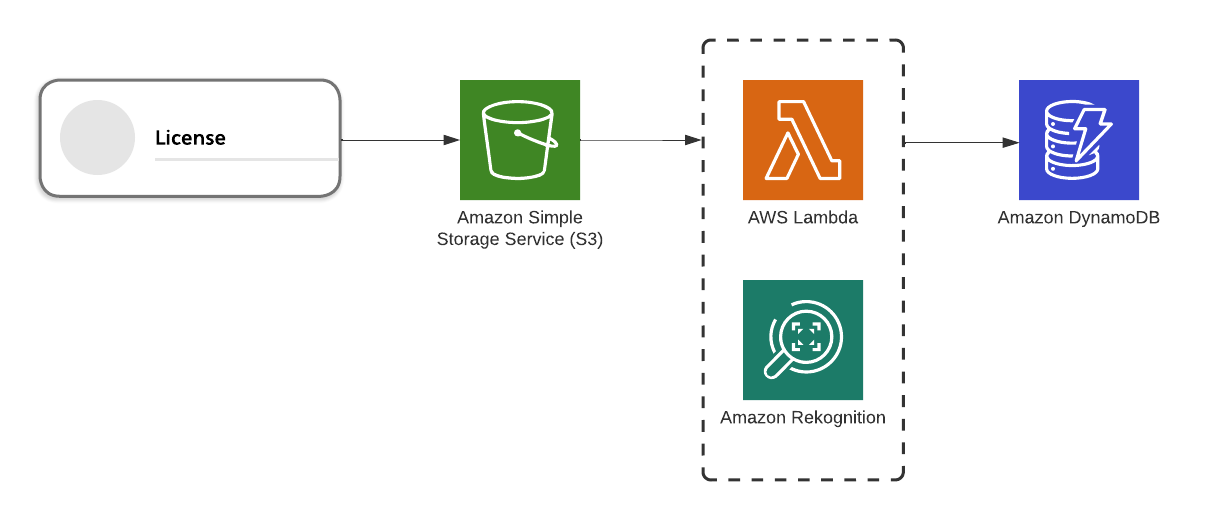
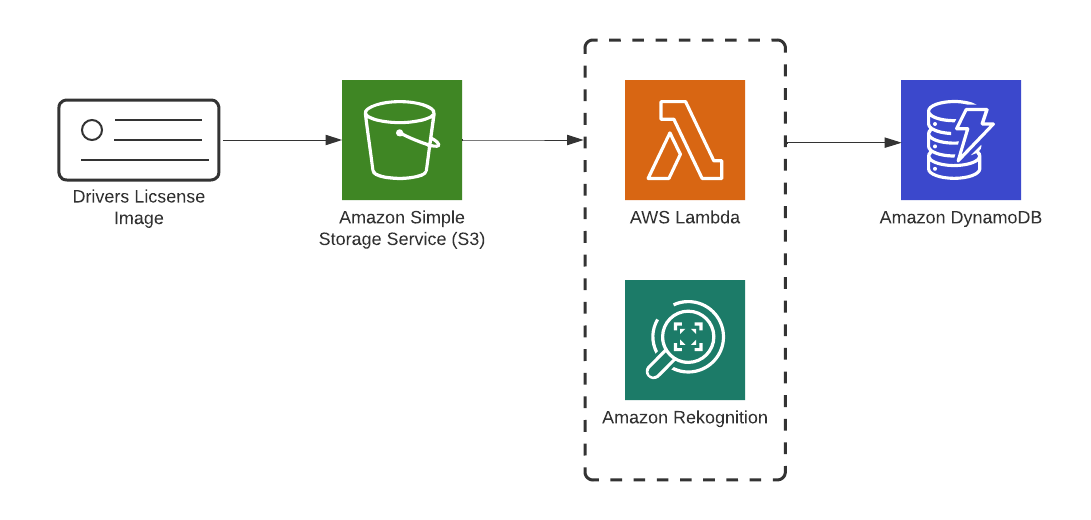
Added README for rekognition-text

diff --git a/rekognition-text/src/image_lambda/lambda.py b/rekognition-text/src/image_lambda/lambda.py
@@ -60,6 +60,11 @@ def handler(event, context):
     logger.setLevel(logging.INFO)
     logger.info("request: " + json.dumps(event))
 
+    if not TABLE_NAME:
+        message = "Could not find table name from environemnt."
+        logger.error(message)
+        return {"statusCode": 500, "body": message}
+
     try:
         for record in event["Records"]:
             # Get the S3 bucket object info

diff --git a/rekognition-text/README.md b/rekognition-text/README.md
@@ -1,31 +1,200 @@
-# Welcome to your CDK TypeScript project
+# Rekognition Text Extraction
 
-This is a blank project for CDK development with TypeScript.
+This example was inspired by the sign up process of Uber CarShare, where
+users are required to provide a photo of there license to extract user
+details and ultimately identify them. We can use AWS Rekognition to
+automate feature extraction from drivers license. At a high level, this
+services will store license images in an S3 bucket. Whenever a new image
+in uploaded to our bucket, we will trigger a lambda function that will build
+a Rekognition client and perform image analysis and text extract from the
+newly uploaded image. We can then send the extracted text to dynamodb for
+later use.
 
-The `cdk.json` file tells the CDK Toolkit how to execute your app.
+## Data Storage
 
-## Upload an image to s3 via cli
+The stack itself is fairly simple, at the top of our cdk, we defined our bucket to upload images to as well as the dynamodb to store extracted text
 
-Run the command
+```typescript
+// S3 core
+const bucket = new Bucket(this, "LICENSE_IMAGES");
 
-```bash
-aws s3 ls
+// DynamoDB Table
+const table = new Table(this, "LICENSE_RECORDS", {
+  partitionKey: { name: "LicenseNo", type: AttributeType.STRING },
+  billingMode: BillingMode.PAY_PER_REQUEST,
+  removalPolicy: RemovalPolicy.DESTROY,
+});
 ```
 
-to view all of your buckets
+The only thing interesting going one here is that we have defined a key within the dynamodb to uniquely identify the drivers license, in this case we are using the license number.
 
-```bash
-aws s3 cp ./imgs/example_license.png s3://<bucket-uri>
+## Lambda
+
+Of course, we will need to define a lambda function to process our images.
+
+```typescript
+// lambda
+const lambda = new Function(this, "LICENSE_FUNCTION", {
+  runtime: Runtime.PYTHON_3_9,
+  code: Code.fromAsset(path.join(__dirname, "..", "src", "image_lambda")),
+  handler: "lambda.handler",
+  initialPolicy: initialPolicy,
+  environment: {
+    DYNAMODB_TABLE: table.tableName,
+  },
+});
+
+...
+
+// Add an S3 event to the lambda
+lambda.addEventSource(
+  new cdk.aws_lambda_event_sources.S3EventSource(bucket, {
+    events: [EventType.OBJECT_CREATED],
+  })
+);
 ```
 
-## Useful commands
+Passing the dynamodb table name as an `environment` is needed so that we have some way to access the table within our lambda function. The event source is used to trigger our lambda every time a new image is uploaded to the aforementioned S3 bucket. I've intentionally left out an explanation for the `initialPolicy` field, but we will circle back to that soon!
 
-- `npm run build` compile typescript to js
-- `npm run watch` watch for changes and compile
-- `npm run test` perform the jest unit tests
-- `cdk deploy` deploy this stack to your default AWS account/region
-- `cdk diff` compare deployed stack with current state
-- `cdk synth` emits the synthesized CloudFormation template
+## IAM
+
+Before, we deploy this stack, we need to make sure a function has nesseccary permissions to access other components of our services. To start, our lambda will require read access to our S3 bucket to access uploaded license images as well as write permissions to the dynamodb to add entries of the extracted text.
+
+```typescript
+// Grant our lambda read permissions for s3 and
+// write permissions for dynamo
+bucket.grantRead(lambda);
+table.grantWriteData(lambda);
+```
+
+The lambda function also needs explicit access to invoke certain methods from our Rekognition client. For this service, I'd like the lambda function above to have access to Rekognition's detect text and detect labels features. These policies are formulated as shown below.
+
+```typescript
+// Policies to attach to our lambda
+const initialPolicy: Array<PolicyStatement> = [
+  new PolicyStatement({
+    effect: Effect.ALLOW,
+    actions: ["rekognition:DetectText"],
+    resources: ["*"],
+  }),
+  new PolicyStatement({
+    effect: Effect.ALLOW,
+    actions: ["rekognition:DetectLabels"],
+    resources: ["*"],
+  }),
+];
+```
+
+## Lambda Code
+
+Here's the handler that used every time our lambda function is invoked
+
+```python
+def handler(event, context):
+    logger: logging.Logger = logging.getLogger(__name__)
+    logger.setLevel(logging.INFO)
+    logger.info("request: " + json.dumps(event))
+
+    if not TABLE_NAME:
+        message = "Could not find table name from environemnt."
+        logger.error(message)
+        return {"statusCode": 500, "body": message}
+
+    try:
+        for record in event["Records"]:
+            # Get the S3 bucket object info
+            bucket_name = record["s3"]["bucket"]["name"]
+            key = record["s3"]["object"]["key"]
+            image_id = {
+                "S3Object": {
+                    "Bucket": bucket_name,
+                    "Name": key,
+                }
+            }
+
+            label_response: dict = rekognition_client.detect_labels(Image=image_id)
+            logger.info(json.dumps(label_response))
+
+            # Skip the image if it is not a license
+            if not is_license(label_response):
+                logger.info(f"Image {key} was not deemed to be a drivers license.")
+                continue
+
+            text_response: dict = rekognition_client.detect_text(Image=image_id)
+            logger.info("text response" + json.dumps(text_response))
+            detections: list[dict] = text_response["TextDetections"]
+
+            # Construct a list of all the detected labels
+            labels: list[str] = [label["DetectedText"] for label in detections]
+            effective_date, expirary_date = get_effective_expiry(labels)
+            dynamodb_client.put_item(
+                TableName=TABLE_NAME,
+                Item={
+                    "LicenseNo": {"S": get_license_no(labels)},
+                    "EffectiveDate": {"S": effective_date},
+                    "ExpiraryDate": {"S": expirary_date},
+                    "Class": {"S": get_license_class(labels)},
+                    "Type": {"S": get_license_type(labels)},
+                },
+            )
+    except ClientError as e:
+        logger.error(e)
+        return {"statusCode": 500, "body": str(e)}
+
+```
+
+First we create a reference to our image in S3 using the `image_id` variable. We then use Rekognition's label feature to provide a list of categories that it thinks this image belongs to. We use this feature here to determine if the image if provided with a "Drivers License" label and to skip processing this image if it lacks this label. Next Rekognition's text feature is used to extract parts of the text from the license. Helper methods are used to filter through all the text fields to populate the new dynamodb entry.
+
+## How To Test
+
+First clone this repository
+
+```bash
+git clone https://github.com/Michae1CC/aws-cdk-examples
+```
+
+and change directory into the apigw-to-dynamodb folder.
+
+```bash
+cd apigw-to-dynamodb
+```
+
+Run
+
+```bash
+npm install
+```
+
+to install the required packages to create Cloudformation template and then
+
+```bash
+cdk deploy
+```
+
+to deploy these resources to the cloud. You should hopefully see the following outputs after deployment
+
+```
+Outputs:
+RekognitionTextStack.LambdaName = <lambda-name>
+RekognitionTextStack.S3BucketName = <bucket-name>
+RekognitionTextStack.TableName = <table-name>
+Stack ARN:
+arn:aws:cloudformation:us-east-1:221318883170:stack/RekognitionTextStack/4340bd80-e7d5-11ed-9242-12e66b7f04bb
+```
+
+To test out our service we can upload the following sample Queensland drivers license found under the `img` folder to our S3 bucket.
+
+![sample-license](./img/example_license.png)
+
+We can upload the image using the following [aws cli](https://aws.amazon.com/cli/) command.
+
+```bash
+aws s3 cp ./img/example_license.png s3://<bucket-name>
+```
+
+Within your aws console, you can navigate to `Lambda > <lambda-name> > Monitor > Logs > Recent invocations` to confirm your lambda function wass triggered. You should also see the following entry within the newly created dynamodb.
+
+![dynamodb-table](./img/dynamodb-table.png)
 
 # References
 
